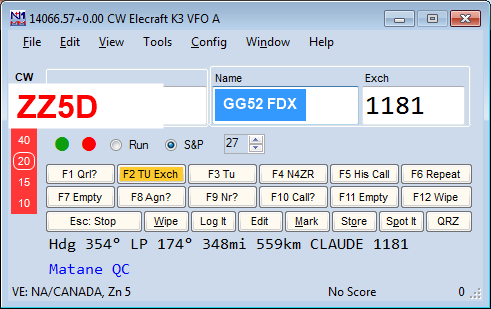
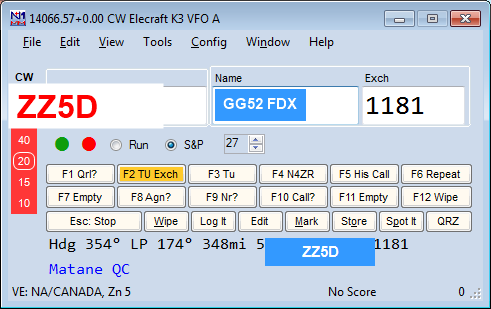
Refactor code structure for improved readability and maintainability

Changed region(s): [[0.5193, 0.7573, 0.7637, 0.8738]]

diff --git a/site/setup/function-keys/index.html b/site/setup/function-keys/index.html
@@ -1,4 +1,4 @@
-<!DOCTYPE html>
+<!DOCTYPE html>
 <html lang="pt-BR">
 <head>
 <script type="text/javascript">
@@ -12,6 +12,16 @@
 <meta name="viewport" content="width=device-width, initial-scale=1.0">
 <title>Function Keys, Messages and Macros — Manual N1MM+ em Português</title>
 <meta name="description" content="Tradução não-oficial, feita pela comunidade brasileira de radioamadorismo, da seção de teclas de função, mensagens e macros do manual oficial do N1MM Logger+.">
+<meta property="og:title" content="Function Keys, Messages and Macros — Manual N1MM+ em Português">
+<meta property="og:description" content="Tradução não-oficial, feita pela comunidade brasileira de radioamadorismo, da seção de teclas de função, mensagens e macros do manual oficial do N1MM Logger+.">
+<meta property="og:image" content="https://n1mm.gg52floripadx.com/assets/img/og-image.png">
+<meta property="og:url" content="https://n1mm.gg52floripadx.com/setup/function-keys/index.html">
+<meta property="og:type" content="website">
+<meta property="og:site_name" content="Manual N1MM+ em Português">
+<meta name="twitter:card" content="summary_large_image">
+<meta name="twitter:title" content="Function Keys, Messages and Macros — Manual N1MM+ em Português">
+<meta name="twitter:description" content="Tradução não-oficial, feita pela comunidade brasileira de radioamadorismo, da seção de teclas de função, mensagens e macros do manual oficial do N1MM Logger+.">
+<meta name="twitter:image" content="https://n1mm.gg52floripadx.com/assets/img/og-image.png">
 <link rel="stylesheet" href="../../assets/css/style.css">
 <link rel="icon" href="../../assets/favicon-32.jpg" sizes="32x32">
 <link rel="icon" href="../../assets/favicon.jpg" sizes="192x192">
@@ -46,7 +56,7 @@
     <a href="https://n1mm.gg52floripadx.com/">Início</a> &raquo;
     <a href="../index.html">Setup</a> &raquo;
     Function Keys, Messages and Macros
-  </nav>
+</nav>
 
   <h1>Function Keys, Messages and Macros <span class="tag-en">EN: Function Keys, Messages and Macros</span></h1>
 

diff --git a/site/setup/localization/index.html b/site/setup/localization/index.html
@@ -1,4 +1,4 @@
-<!DOCTYPE html>
+<!DOCTYPE html>
 <html lang="pt-BR">
 <head>
 <script type="text/javascript">
@@ -12,6 +12,16 @@
 <meta name="viewport" content="width=device-width, initial-scale=1.0">
 <title>Localization (GUI Translation) — Manual N1MM+ em Português</title>
 <meta name="description" content="Tradução não-oficial, feita pela comunidade brasileira de radioamadorismo, da seção de tradução da interface (Localization) do manual oficial do N1MM Logger+.">
+<meta property="og:title" content="Localization (GUI Translation) — Manual N1MM+ em Português">
+<meta property="og:description" content="Tradução não-oficial, feita pela comunidade brasileira de radioamadorismo, da seção de tradução da interface (Localization) do manual oficial do N1MM Logger+.">
+<meta property="og:image" content="https://n1mm.gg52floripadx.com/assets/img/og-image.png">
+<meta property="og:url" content="https://n1mm.gg52floripadx.com/setup/localization/index.html">
+<meta property="og:type" content="website">
+<meta property="og:site_name" content="Manual N1MM+ em Português">
+<meta name="twitter:card" content="summary_large_image">
+<meta name="twitter:title" content="Localization (GUI Translation) — Manual N1MM+ em Português">
+<meta name="twitter:description" content="Tradução não-oficial, feita pela comunidade brasileira de radioamadorismo, da seção de tradução da interface (Localization) do manual oficial do N1MM Logger+.">
+<meta name="twitter:image" content="https://n1mm.gg52floripadx.com/assets/img/og-image.png">
 <link rel="stylesheet" href="../../assets/css/style.css">
 <link rel="icon" href="../../assets/favicon-32.jpg" sizes="32x32">
 <link rel="icon" href="../../assets/favicon.jpg" sizes="192x192">
@@ -40,7 +50,7 @@
     <a href="https://n1mm.gg52floripadx.com/">Início</a> &raquo;
     <a href="../index.html">Setup</a> &raquo;
     Localization (GUI Translation)
-  </nav>
+</nav>
 
   <h1>Localization (GUI Translation) <span class="tag-en">EN: Localization</span></h1>
 

diff --git a/site/setup/keyboard-shortcuts/index.html b/site/setup/keyboard-shortcuts/index.html
@@ -1,4 +1,4 @@
-<!DOCTYPE html>
+<!DOCTYPE html>
 <html lang="pt-BR">
 <head>
 <script type="text/javascript">
@@ -12,6 +12,16 @@
 <meta name="viewport" content="width=device-width, initial-scale=1.0">
 <title>Key Assignments – Keyboard Shortcuts — Manual N1MM+ em Português</title>
 <meta name="description" content="Tradução não-oficial, feita pela comunidade brasileira de radioamadorismo, da seção de atalhos de teclado do manual oficial do N1MM Logger+.">
+<meta property="og:title" content="Key Assignments – Keyboard Shortcuts — Manual N1MM+ em Português">
+<meta property="og:description" content="Tradução não-oficial, feita pela comunidade brasileira de radioamadorismo, da seção de atalhos de teclado do manual oficial do N1MM Logger+.">
+<meta property="og:image" content="https://n1mm.gg52floripadx.com/assets/img/og-image.png">
+<meta property="og:url" content="https://n1mm.gg52floripadx.com/setup/keyboard-shortcuts/index.html">
+<meta property="og:type" content="website">
+<meta property="og:site_name" content="Manual N1MM+ em Português">
+<meta name="twitter:card" content="summary_large_image">
+<meta name="twitter:title" content="Key Assignments – Keyboard Shortcuts — Manual N1MM+ em Português">
+<meta name="twitter:description" content="Tradução não-oficial, feita pela comunidade brasileira de radioamadorismo, da seção de atalhos de teclado do manual oficial do N1MM Logger+.">
+<meta name="twitter:image" content="https://n1mm.gg52floripadx.com/assets/img/og-image.png">
 <link rel="stylesheet" href="../../assets/css/style.css">
 <link rel="icon" href="../../assets/favicon-32.jpg" sizes="32x32">
 <link rel="icon" href="../../assets/favicon.jpg" sizes="192x192">
@@ -45,7 +55,7 @@
     <a href="https://n1mm.gg52floripadx.com/">Início</a> &raquo;
     <a href="../index.html">Setup</a> &raquo;
     Key Assignments – Keyboard Shortcuts
-  </nav>
+</nav>
 
   <h1>Key Assignments – Keyboard Shortcuts <span class="tag-en">EN: Keyboard Shortcuts</span></h1>
 

diff --git a/site/getting-started/installing-and-upgrading-n1mm-logger/index.html b/site/getting-started/installing-and-upgrading-n1mm-logger/index.html
@@ -1,4 +1,4 @@
-<!DOCTYPE html>
+<!DOCTYPE html>
 <html lang="pt-BR">
 <head>
 <script type="text/javascript">
@@ -12,6 +12,16 @@
 <meta name="viewport" content="width=device-width, initial-scale=1.0">
 <title>Installing and Upgrading N1MM Logger+ — Manual N1MM+ em Português</title>
 <meta name="description" content="Tradução não-oficial, feita pela comunidade brasileira de radioamadorismo, sobre como instalar e atualizar o N1MM Logger+.">
+<meta property="og:title" content="Installing and Upgrading N1MM Logger+ — Manual N1MM+ em Português">
+<meta property="og:description" content="Tradução não-oficial, feita pela comunidade brasileira de radioamadorismo, sobre como instalar e atualizar o N1MM Logger+.">
+<meta property="og:image" content="https://n1mm.gg52floripadx.com/assets/img/og-image.png">
+<meta property="og:url" content="https://n1mm.gg52floripadx.com/getting-started/installing-and-upgrading-n1mm-logger/index.html">
+<meta property="og:type" content="website">
+<meta property="og:site_name" content="Manual N1MM+ em Português">
+<meta name="twitter:card" content="summary_large_image">
+<meta name="twitter:title" content="Installing and Upgrading N1MM Logger+ — Manual N1MM+ em Português">
+<meta name="twitter:description" content="Tradução não-oficial, feita pela comunidade brasileira de radioamadorismo, sobre como instalar e atualizar o N1MM Logger+.">
+<meta name="twitter:image" content="https://n1mm.gg52floripadx.com/assets/img/og-image.png">
 <link rel="stylesheet" href="../../assets/css/style.css">
 <link rel="icon" href="../../assets/favicon-32.jpg" sizes="32x32">
 <link rel="icon" href="../../assets/favicon.jpg" sizes="192x192">
@@ -39,7 +49,7 @@
     <a href="https://n1mm.gg52floripadx.com/">Início</a> &raquo;
     <a href="../index.html">Getting Started</a> &raquo;
     Installing and Upgrading N1MM Logger+
-  </nav>
+</nav>
 
   <h1>Installing and Upgrading N1MM Logger+ <span class="tag-en">EN: Installing and Upgrading N1MM Logger+</span></h1>
 

diff --git a/site/setup/call-history/index.html b/site/setup/call-history/index.html
@@ -1,4 +1,4 @@
-<!DOCTYPE html>
+<!DOCTYPE html>
 <html lang="pt-BR">
 <head>
 <script type="text/javascript">
@@ -12,6 +12,16 @@
 <meta name="viewport" content="width=device-width, initial-scale=1.0">
 <title>Call History and Reverse Call History Lookup — Manual N1MM+ em Português</title>
 <meta name="description" content="Tradução não-oficial, feita pela comunidade brasileira de radioamadorismo, da seção Call History do manual oficial do N1MM Logger+.">
+<meta property="og:title" content="Call History and Reverse Call History Lookup — Manual N1MM+ em Português">
+<meta property="og:description" content="Tradução não-oficial, feita pela comunidade brasileira de radioamadorismo, da seção Call History do manual oficial do N1MM Logger+.">
+<meta property="og:image" content="https://n1mm.gg52floripadx.com/assets/img/og-image.png">
+<meta property="og:url" content="https://n1mm.gg52floripadx.com/setup/call-history/index.html">
+<meta property="og:type" content="website">
+<meta property="og:site_name" content="Manual N1MM+ em Português">
+<meta name="twitter:card" content="summary_large_image">
+<meta name="twitter:title" content="Call History and Reverse Call History Lookup — Manual N1MM+ em Português">
+<meta name="twitter:description" content="Tradução não-oficial, feita pela comunidade brasileira de radioamadorismo, da seção Call History do manual oficial do N1MM Logger+.">
+<meta name="twitter:image" content="https://n1mm.gg52floripadx.com/assets/img/og-image.png">
 <link rel="stylesheet" href="../../assets/css/style.css">
 <link rel="icon" href="../../assets/favicon-32.jpg" sizes="32x32">
 <link rel="icon" href="../../assets/favicon.jpg" sizes="192x192">
@@ -43,7 +53,7 @@
     <a href="https://n1mm.gg52floripadx.com/">Início</a> &raquo;
     <a href="../index.html">Setup</a> &raquo;
     Call History and Reverse Call History Lookup
-  </nav>
+</nav>
 
   <h1>Call History and Reverse Call History Lookup <span class="tag-en">EN: Call History</span></h1>
 

diff --git a/site/getting-started/digital-installation/index.html b/site/getting-started/digital-installation/index.html
@@ -1,4 +1,4 @@
-<!DOCTYPE html>
+<!DOCTYPE html>
 <html lang="pt-BR">
 <head>
 <script type="text/javascript">
@@ -12,6 +12,16 @@
 <meta name="viewport" content="width=device-width, initial-scale=1.0">
 <title>Downloading Digital Software — Manual N1MM+ em Português</title>
 <meta name="description" content="Tradução não-oficial, feita pela comunidade brasileira de radioamadorismo, sobre o que saber antes de configurar modos digitais no N1MM Logger+.">
+<meta property="og:title" content="Downloading Digital Software — Manual N1MM+ em Português">
+<meta property="og:description" content="Tradução não-oficial, feita pela comunidade brasileira de radioamadorismo, sobre o que saber antes de configurar modos digitais no N1MM Logger+.">
+<meta property="og:image" content="https://n1mm.gg52floripadx.com/assets/img/og-image.png">
+<meta property="og:url" content="https://n1mm.gg52floripadx.com/getting-started/digital-installation/index.html">
+<meta property="og:type" content="website">
+<meta property="og:site_name" content="Manual N1MM+ em Português">
+<meta name="twitter:card" content="summary_large_image">
+<meta name="twitter:title" content="Downloading Digital Software — Manual N1MM+ em Português">
+<meta name="twitter:description" content="Tradução não-oficial, feita pela comunidade brasileira de radioamadorismo, sobre o que saber antes de configurar modos digitais no N1MM Logger+.">
+<meta name="twitter:image" content="https://n1mm.gg52floripadx.com/assets/img/og-image.png">
 <link rel="stylesheet" href="../../assets/css/style.css">
 <link rel="icon" href="../../assets/favicon-32.jpg" sizes="32x32">
 <link rel="icon" href="../../assets/favicon.jpg" sizes="192x192">
@@ -39,7 +49,7 @@
     <a href="https://n1mm.gg52floripadx.com/">Início</a> &raquo;
     <a href="../index.html">Getting Started</a> &raquo;
     Downloading Digital Software
-  </nav>
+</nav>
 
   <h1>Downloading Digital Software <span class="tag-en">EN: Downloading Digital Software</span></h1>
 

diff --git a/site/setup/skins-colors-and-fonts-window/index.html b/site/setup/skins-colors-and-fonts-window/index.html
@@ -1,4 +1,4 @@
-<!DOCTYPE html>
+<!DOCTYPE html>
 <html lang="pt-BR">
 <head>
 <script type="text/javascript">
@@ -12,6 +12,16 @@
 <meta name="viewport" content="width=device-width, initial-scale=1.0">
 <title>Skins, Colors and Fonts — Manual N1MM+ em Português</title>
 <meta name="description" content="Tradução não-oficial, feita pela comunidade brasileira de radioamadorismo, da janela Skins, Colors and Fonts do manual oficial do N1MM Logger+.">
+<meta property="og:title" content="Skins, Colors and Fonts — Manual N1MM+ em Português">
+<meta property="og:description" content="Tradução não-oficial, feita pela comunidade brasileira de radioamadorismo, da janela Skins, Colors and Fonts do manual oficial do N1MM Logger+.">
+<meta property="og:image" content="https://n1mm.gg52floripadx.com/assets/img/og-image.png">
+<meta property="og:url" content="https://n1mm.gg52floripadx.com/setup/skins-colors-and-fonts-window/index.html">
+<meta property="og:type" content="website">
+<meta property="og:site_name" content="Manual N1MM+ em Português">
+<meta name="twitter:card" content="summary_large_image">
+<meta name="twitter:title" content="Skins, Colors and Fonts — Manual N1MM+ em Português">
+<meta name="twitter:description" content="Tradução não-oficial, feita pela comunidade brasileira de radioamadorismo, da janela Skins, Colors and Fonts do manual oficial do N1MM Logger+.">
+<meta name="twitter:image" content="https://n1mm.gg52floripadx.com/assets/img/og-image.png">
 <link rel="stylesheet" href="../../assets/css/style.css">
 <link rel="icon" href="../../assets/favicon-32.jpg" sizes="32x32">
 <link rel="icon" href="../../assets/favicon.jpg" sizes="192x192">
@@ -40,7 +50,7 @@
     <a href="https://n1mm.gg52floripadx.com/">Início</a> &raquo;
     <a href="../index.html">Setup</a> &raquo;
     Skins, Colors and Fonts
-  </nav>
+</nav>
 
   <h1>Skins, Colors and Fonts <span class="tag-en">EN: Skins, Colors and Fonts</span></h1>
 

diff --git a/site/setup/software-setup/index.html b/site/setup/software-setup/index.html
@@ -1,4 +1,4 @@
-<!DOCTYPE html>
+<!DOCTYPE html>
 <html lang="pt-BR">
 <head>
 <script type="text/javascript">
@@ -12,6 +12,16 @@
 <meta name="viewport" content="width=device-width, initial-scale=1.0">
 <title>Software Setup (Configuração do Software) — Manual N1MM+ em Português</title>
 <meta name="description" content="Tradução não-oficial, feita pela comunidade brasileira de radioamadorismo, da seção Software Setup do manual oficial do N1MM Logger+.">
+<meta property="og:title" content="Software Setup (Configuração do Software) — Manual N1MM+ em Português">
+<meta property="og:description" content="Tradução não-oficial, feita pela comunidade brasileira de radioamadorismo, da seção Software Setup do manual oficial do N1MM Logger+.">
+<meta property="og:image" content="https://n1mm.gg52floripadx.com/assets/img/og-image.png">
+<meta property="og:url" content="https://n1mm.gg52floripadx.com/setup/software-setup/index.html">
+<meta property="og:type" content="website">
+<meta property="og:site_name" content="Manual N1MM+ em Português">
+<meta name="twitter:card" content="summary_large_image">
+<meta name="twitter:title" content="Software Setup (Configuração do Software) — Manual N1MM+ em Português">
+<meta name="twitter:description" content="Tradução não-oficial, feita pela comunidade brasileira de radioamadorismo, da seção Software Setup do manual oficial do N1MM Logger+.">
+<meta name="twitter:image" content="https://n1mm.gg52floripadx.com/assets/img/og-image.png">
 <link rel="stylesheet" href="../../assets/css/style.css">
 <link rel="icon" href="../../assets/favicon-32.jpg" sizes="32x32">
 <link rel="icon" href="../../assets/favicon.jpg" sizes="192x192">
@@ -41,7 +51,7 @@
     <a href="https://n1mm.gg52floripadx.com/">Início</a> &raquo;
     <a href="../index.html">Setup</a> &raquo;
     Software Setup
-  </nav>
+</nav>
 
   <h1>Software Setup <span class="tag-en">EN: Software Setup</span></h1>
 

diff --git a/site/setup/contest-setup/index.html b/site/setup/contest-setup/index.html
@@ -1,4 +1,4 @@
-<!DOCTYPE html>
+<!DOCTYPE html>
 <html lang="pt-BR">
 <head>
 <script type="text/javascript">
@@ -12,6 +12,16 @@
 <meta name="viewport" content="width=device-width, initial-scale=1.0">
 <title>Contest Setup Dialog — Manual N1MM+ em Português</title>
 <meta name="description" content="Tradução não-oficial, feita pela comunidade brasileira de radioamadorismo, da seção Contest Setup Dialog do manual oficial do N1MM Logger+.">
+<meta property="og:title" content="Contest Setup Dialog — Manual N1MM+ em Português">
+<meta property="og:description" content="Tradução não-oficial, feita pela comunidade brasileira de radioamadorismo, da seção Contest Setup Dialog do manual oficial do N1MM Logger+.">
+<meta property="og:image" content="https://n1mm.gg52floripadx.com/assets/img/og-image.png">
+<meta property="og:url" content="https://n1mm.gg52floripadx.com/setup/contest-setup/index.html">
+<meta property="og:type" content="website">
+<meta property="og:site_name" content="Manual N1MM+ em Português">
+<meta name="twitter:card" content="summary_large_image">
+<meta name="twitter:title" content="Contest Setup Dialog — Manual N1MM+ em Português">
+<meta name="twitter:description" content="Tradução não-oficial, feita pela comunidade brasileira de radioamadorismo, da seção Contest Setup Dialog do manual oficial do N1MM Logger+.">
+<meta name="twitter:image" content="https://n1mm.gg52floripadx.com/assets/img/og-image.png">
 <link rel="stylesheet" href="../../assets/css/style.css">
 <link rel="icon" href="../../assets/favicon-32.jpg" sizes="32x32">
 <link rel="icon" href="../../assets/favicon.jpg" sizes="192x192">
@@ -41,7 +51,7 @@
     <a href="https://n1mm.gg52floripadx.com/">Início</a> &raquo;
     <a href="../index.html">Setup</a> &raquo;
     Contest Setup Dialog
-  </nav>
+</nav>
 
   <h1>Contest Setup Dialog <span class="tag-en">EN: Contest Setup Dialog</span></h1>
 

diff --git a/site/setup/the-configurer/index.html b/site/setup/the-configurer/index.html
@@ -1,4 +1,4 @@
-<!DOCTYPE html>
+<!DOCTYPE html>
 <html lang="pt-BR">
 <head>
 <script type="text/javascript">
@@ -12,6 +12,16 @@
 <meta name="viewport" content="width=device-width, initial-scale=1.0">
 <title>The Configurer (O Configurer) — Manual N1MM+ em Português</title>
 <meta name="description" content="Tradução não-oficial, feita pela comunidade brasileira de radioamadorismo, da seção The Configurer do manual oficial do N1MM Logger+.">
+<meta property="og:title" content="The Configurer (O Configurer) — Manual N1MM+ em Português">
+<meta property="og:description" content="Tradução não-oficial, feita pela comunidade brasileira de radioamadorismo, da seção The Configurer do manual oficial do N1MM Logger+.">
+<meta property="og:image" content="https://n1mm.gg52floripadx.com/assets/img/og-image.png">
+<meta property="og:url" content="https://n1mm.gg52floripadx.com/setup/the-configurer/index.html">
+<meta property="og:type" content="website">
+<meta property="og:site_name" content="Manual N1MM+ em Português">
+<meta name="twitter:card" content="summary_large_image">
+<meta name="twitter:title" content="The Configurer (O Configurer) — Manual N1MM+ em Português">
+<meta name="twitter:description" content="Tradução não-oficial, feita pela comunidade brasileira de radioamadorismo, da seção The Configurer do manual oficial do N1MM Logger+.">
+<meta name="twitter:image" content="https://n1mm.gg52floripadx.com/assets/img/og-image.png">
 <link rel="stylesheet" href="../../assets/css/style.css">
 <link rel="icon" href="../../assets/favicon-32.jpg" sizes="32x32">
 <link rel="icon" href="../../assets/favicon.jpg" sizes="192x192">
@@ -41,7 +51,7 @@
     <a href="https://n1mm.gg52floripadx.com/">Início</a> &raquo;
     <a href="../index.html">Setup</a> &raquo;
     The Configurer
-  </nav>
+</nav>
 
   <h1>The Configurer <span class="tag-en">EN: The Configurer</span></h1>
 

diff --git a/site/setup/audio-setup-window/index.html b/site/setup/audio-setup-window/index.html
@@ -1,4 +1,4 @@
-<!DOCTYPE html>
+<!DOCTYPE html>
 <html lang="pt-BR">
 <head>
 <script type="text/javascript">
@@ -12,6 +12,16 @@
 <meta name="viewport" content="width=device-width, initial-scale=1.0">
 <title>Audio Setup Window — Manual N1MM+ em Português</title>
 <meta name="description" content="Tradução não-oficial, feita pela comunidade brasileira de radioamadorismo, da janela Audio Setup do manual oficial do N1MM Logger+.">
+<meta property="og:title" content="Audio Setup Window — Manual N1MM+ em Português">
+<meta property="og:description" content="Tradução não-oficial, feita pela comunidade brasileira de radioamadorismo, da janela Audio Setup do manual oficial do N1MM Logger+.">
+<meta property="og:image" content="https://n1mm.gg52floripadx.com/assets/img/og-image.png">
+<meta property="og:url" content="https://n1mm.gg52floripadx.com/setup/audio-setup-window/index.html">
+<meta property="og:type" content="website">
+<meta property="og:site_name" content="Manual N1MM+ em Português">
+<meta name="twitter:card" content="summary_large_image">
+<meta name="twitter:title" content="Audio Setup Window — Manual N1MM+ em Português">
+<meta name="twitter:description" content="Tradução não-oficial, feita pela comunidade brasileira de radioamadorismo, da janela Audio Setup do manual oficial do N1MM Logger+.">
+<meta name="twitter:image" content="https://n1mm.gg52floripadx.com/assets/img/og-image.png">
 <link rel="stylesheet" href="../../assets/css/style.css">
 <link rel="icon" href="../../assets/favicon-32.jpg" sizes="32x32">
 <link rel="icon" href="../../assets/favicon.jpg" sizes="192x192">
@@ -43,7 +53,7 @@
     <a href="https://n1mm.gg52floripadx.com/">Início</a> &raquo;
     <a href="../index.html">Setup</a> &raquo;
     Audio Setup Window
-  </nav>
+</nav>
 
   <h1>Audio Setup Window <span class="tag-en">EN: Audio Setup Window</span></h1>
 

diff --git a/site/getting-started/downloading-the-software/index.html b/site/getting-started/downloading-the-software/index.html
@@ -1,4 +1,4 @@
-<!DOCTYPE html>
+<!DOCTYPE html>
 <html lang="pt-BR">
 <head>
 <script type="text/javascript">
@@ -12,6 +12,16 @@
 <meta name="viewport" content="width=device-width, initial-scale=1.0">
 <title>Downloading the Software — Manual N1MM+ em Português</title>
 <meta name="description" content="Tradução não-oficial, feita pela comunidade brasileira de radioamadorismo, sobre onde baixar o N1MM Logger+.">
+<meta property="og:title" content="Downloading the Software — Manual N1MM+ em Português">
+<meta property="og:description" content="Tradução não-oficial, feita pela comunidade brasileira de radioamadorismo, sobre onde baixar o N1MM Logger+.">
+<meta property="og:image" content="https://n1mm.gg52floripadx.com/assets/img/og-image.png">
+<meta property="og:url" content="https://n1mm.gg52floripadx.com/getting-started/downloading-the-software/index.html">
+<meta property="og:type" content="website">
+<meta property="og:site_name" content="Manual N1MM+ em Português">
+<meta name="twitter:card" content="summary_large_image">
+<meta name="twitter:title" content="Downloading the Software — Manual N1MM+ em Português">
+<meta name="twitter:description" content="Tradução não-oficial, feita pela comunidade brasileira de radioamadorismo, sobre onde baixar o N1MM Logger+.">
+<meta name="twitter:image" content="https://n1mm.gg52floripadx.com/assets/img/og-image.png">
 <link rel="stylesheet" href="../../assets/css/style.css">
 <link rel="icon" href="../../assets/favicon-32.jpg" sizes="32x32">
 <link rel="icon" href="../../assets/favicon.jpg" sizes="192x192">
@@ -39,7 +49,7 @@
     <a href="https://n1mm.gg52floripadx.com/">Início</a> &raquo;
     <a href="../index.html">Getting Started</a> &raquo;
     Downloading the Software
-  </nav>
+</nav>
 
   <h1>Downloading the Software <span class="tag-en">EN: Downloading the Software</span></h1>
 
